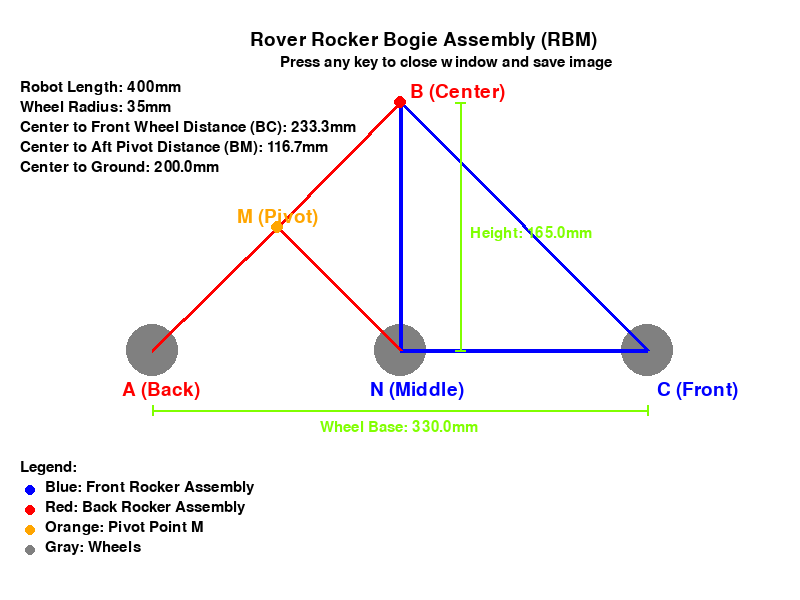
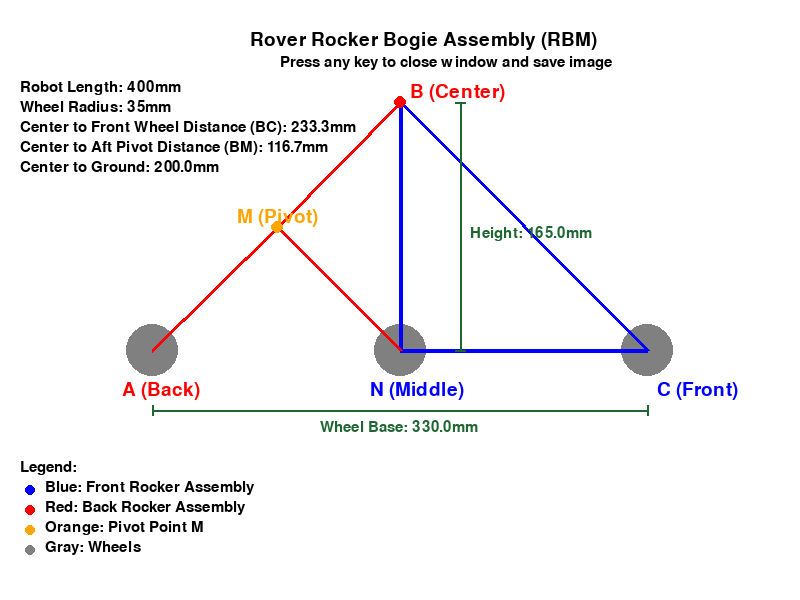
Better green color

Changed region(s): [[0.1875, 0.66, 0.8125, 0.72], [0.5625, 0.36, 0.75, 0.42]]

diff --git a/RBM.py b/RBM.py
@@ -74,12 +74,17 @@ SCREEN_HEIGHT = 600
 screen = pg.display.set_mode((SCREEN_WIDTH, SCREEN_HEIGHT))
 pg.display.set_caption('Rover Rocker Bogie Assembly (RBM)')
 
+def pygame_color_from_hex_code(hex_code):
+    """Convert hex color code to Pygame color tuple."""
+    hex_code = hex_code.lstrip('#')
+    return tuple(int(hex_code[i:i+2], 16) for i in (0, 2, 4))
+
 # Colors
 BLACK = (0, 0, 0)
 WHITE = (255, 255, 255)
 RED = (255, 0, 0)
 BLUE = (0, 0, 255)
-GREEN = (128, 255, 0)
+GREEN = pygame_color_from_hex_code("#1f6632")
 GRAY = (128, 128, 128)
 YELLOW = (255, 255, 0)
 ORANGE = (255, 165, 0)
@@ -222,7 +227,7 @@ def main():
 
         draw_rbm()
         pg.display.flip()
-        clock.tick(60)
+        clock.tick(24)
     pg.image.save(screen, IMAGE_FILE)
     print(f"RBM diagram saved as '{IMAGE_FILE}'.")
     pg.quit()
